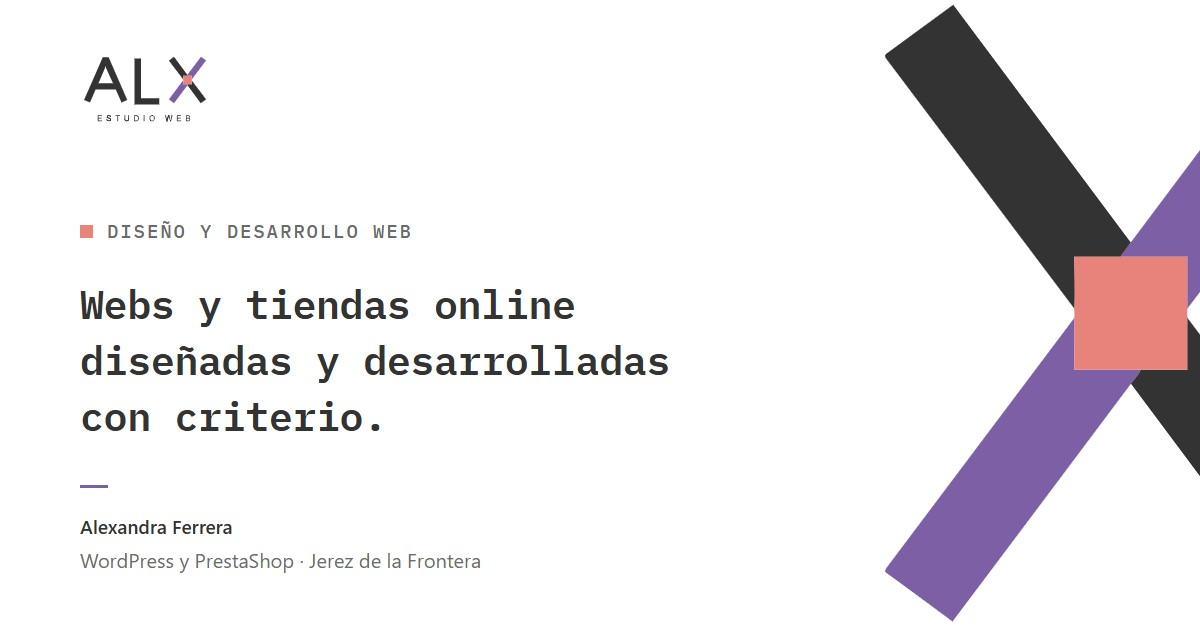
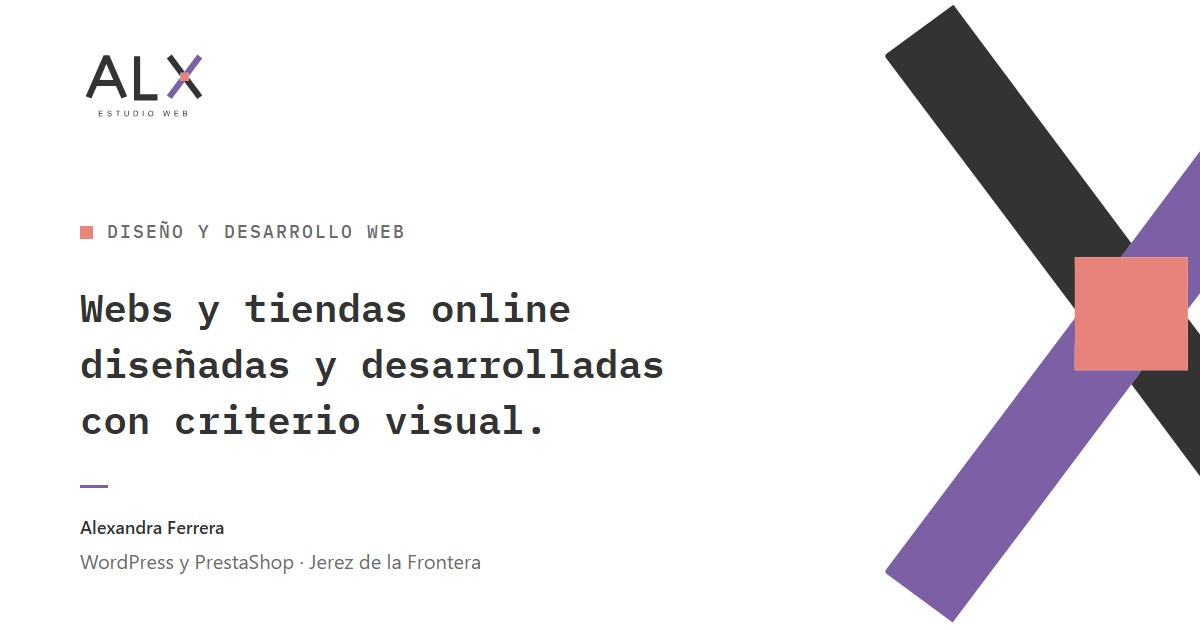
Cambia el H1 a «con criterio visual» y rehace la imagen para redes

diff --git a/index.html b/index.html
@@ -9,12 +9,12 @@
   <meta property="og:site_name" content="ALX Estudio Web">
   <meta property="og:locale" content="es_ES">
   <meta property="og:title" content="ALX Estudio Web · Diseño y desarrollo web">
-  <meta property="og:description" content="Webs y tiendas online diseñadas y desarrolladas con criterio, con WordPress y PrestaShop, desde Jerez de la Frontera para toda España.">
+  <meta property="og:description" content="Webs y tiendas online diseñadas y desarrolladas con criterio visual, con WordPress y PrestaShop, desde Jerez de la Frontera para toda España.">
   <meta property="og:url" content="https://alx-estudioweb.netlify.app/">
   <meta property="og:image" content="https://alx-estudioweb.netlify.app/img/marca/og-alx-estudio-web.jpg">
   <meta property="og:image:width" content="1200">
   <meta property="og:image:height" content="630">
-  <meta property="og:image:alt" content="Logotipo de ALX Estudio Web, la X del logotipo en grande y el texto: webs y tiendas online diseñadas y desarrolladas con criterio">
+  <meta property="og:image:alt" content="Logotipo de ALX Estudio Web, la X del logotipo en grande y el texto: webs y tiendas online diseñadas y desarrolladas con criterio visual">
   <meta name="twitter:card" content="summary_large_image">
   <link rel="canonical" href="https://alx-estudioweb.netlify.app/">
   <script type="application/ld+json">
@@ -78,7 +78,7 @@
     <div class="container hero__inner">
       <div class="hero__content">
         <p class="eyebrow">Diseño y desarrollo web</p>
-        <h1>Webs y tiendas online diseñadas y desarrolladas con criterio.</h1>
+        <h1>Webs y tiendas online diseñadas y desarrolladas con criterio visual.</h1>
         <p class="lead">Soy Alexandra, diseñadora y desarrolladora web freelance. Creo, mejoro y mantengo webs y tiendas online en WordPress y PrestaShop para negocios, y colaboro con agencias en sus proyectos.</p>
         <div class="btn-group">
           <a href="contacto.html" class="btn btn--primary">Cuéntame tu proyecto</a>

diff --git a/proyectos.html b/proyectos.html
@@ -14,7 +14,7 @@
   <meta property="og:image" content="https://alx-estudioweb.netlify.app/img/marca/og-alx-estudio-web.jpg">
   <meta property="og:image:width" content="1200">
   <meta property="og:image:height" content="630">
-  <meta property="og:image:alt" content="Logotipo de ALX Estudio Web, la X del logotipo en grande y el texto: webs y tiendas online diseñadas y desarrolladas con criterio">
+  <meta property="og:image:alt" content="Logotipo de ALX Estudio Web, la X del logotipo en grande y el texto: webs y tiendas online diseñadas y desarrolladas con criterio visual">
   <meta name="twitter:card" content="summary_large_image">
   <link rel="canonical" href="https://alx-estudioweb.netlify.app/proyectos">
   <link rel="icon" href="favicon.svg" type="image/svg+xml">

diff --git a/servicios.html b/servicios.html
@@ -14,7 +14,7 @@
   <meta property="og:image" content="https://alx-estudioweb.netlify.app/img/marca/og-alx-estudio-web.jpg">
   <meta property="og:image:width" content="1200">
   <meta property="og:image:height" content="630">
-  <meta property="og:image:alt" content="Logotipo de ALX Estudio Web, la X del logotipo en grande y el texto: webs y tiendas online diseñadas y desarrolladas con criterio">
+  <meta property="og:image:alt" content="Logotipo de ALX Estudio Web, la X del logotipo en grande y el texto: webs y tiendas online diseñadas y desarrolladas con criterio visual">
   <meta name="twitter:card" content="summary_large_image">
   <link rel="canonical" href="https://alx-estudioweb.netlify.app/servicios">
   <link rel="icon" href="favicon.svg" type="image/svg+xml">

diff --git a/agencias.html b/agencias.html
@@ -14,7 +14,7 @@
   <meta property="og:image" content="https://alx-estudioweb.netlify.app/img/marca/og-alx-estudio-web.jpg">
   <meta property="og:image:width" content="1200">
   <meta property="og:image:height" content="630">
-  <meta property="og:image:alt" content="Logotipo de ALX Estudio Web, la X del logotipo en grande y el texto: webs y tiendas online diseñadas y desarrolladas con criterio">
+  <meta property="og:image:alt" content="Logotipo de ALX Estudio Web, la X del logotipo en grande y el texto: webs y tiendas online diseñadas y desarrolladas con criterio visual">
   <meta name="twitter:card" content="summary_large_image">
   <link rel="canonical" href="https://alx-estudioweb.netlify.app/agencias">
   <link rel="icon" href="favicon.svg" type="image/svg+xml">

diff --git a/contacto.html b/contacto.html
@@ -14,7 +14,7 @@
   <meta property="og:image" content="https://alx-estudioweb.netlify.app/img/marca/og-alx-estudio-web.jpg">
   <meta property="og:image:width" content="1200">
   <meta property="og:image:height" content="630">
-  <meta property="og:image:alt" content="Logotipo de ALX Estudio Web, la X del logotipo en grande y el texto: webs y tiendas online diseñadas y desarrolladas con criterio">
+  <meta property="og:image:alt" content="Logotipo de ALX Estudio Web, la X del logotipo en grande y el texto: webs y tiendas online diseñadas y desarrolladas con criterio visual">
   <meta name="twitter:card" content="summary_large_image">
   <link rel="canonical" href="https://alx-estudioweb.netlify.app/contacto">
   <link rel="icon" href="favicon.svg" type="image/svg+xml">

diff --git a/sobre-mi.html b/sobre-mi.html
@@ -14,7 +14,7 @@
   <meta property="og:image" content="https://alx-estudioweb.netlify.app/img/marca/og-alx-estudio-web.jpg">
   <meta property="og:image:width" content="1200">
   <meta property="og:image:height" content="630">
-  <meta property="og:image:alt" content="Logotipo de ALX Estudio Web, la X del logotipo en grande y el texto: webs y tiendas online diseñadas y desarrolladas con criterio">
+  <meta property="og:image:alt" content="Logotipo de ALX Estudio Web, la X del logotipo en grande y el texto: webs y tiendas online diseñadas y desarrolladas con criterio visual">
   <meta name="twitter:card" content="summary_large_image">
   <link rel="canonical" href="https://alx-estudioweb.netlify.app/sobre-mi">
   <link rel="icon" href="favicon.svg" type="image/svg+xml">
